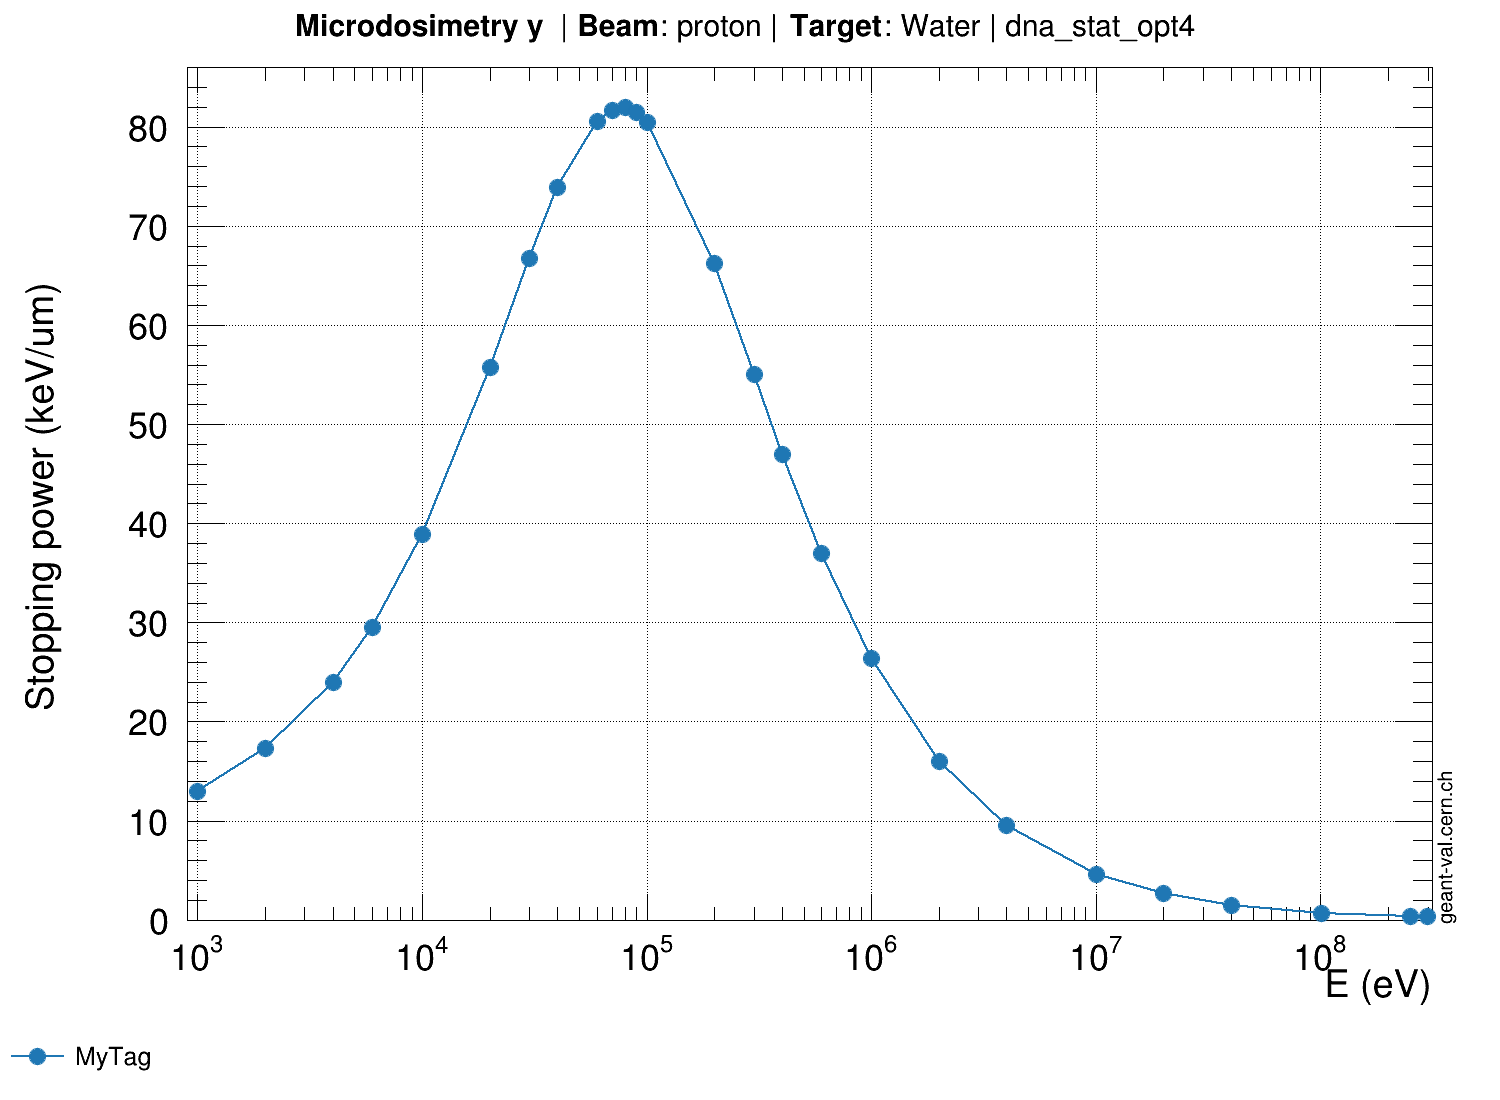
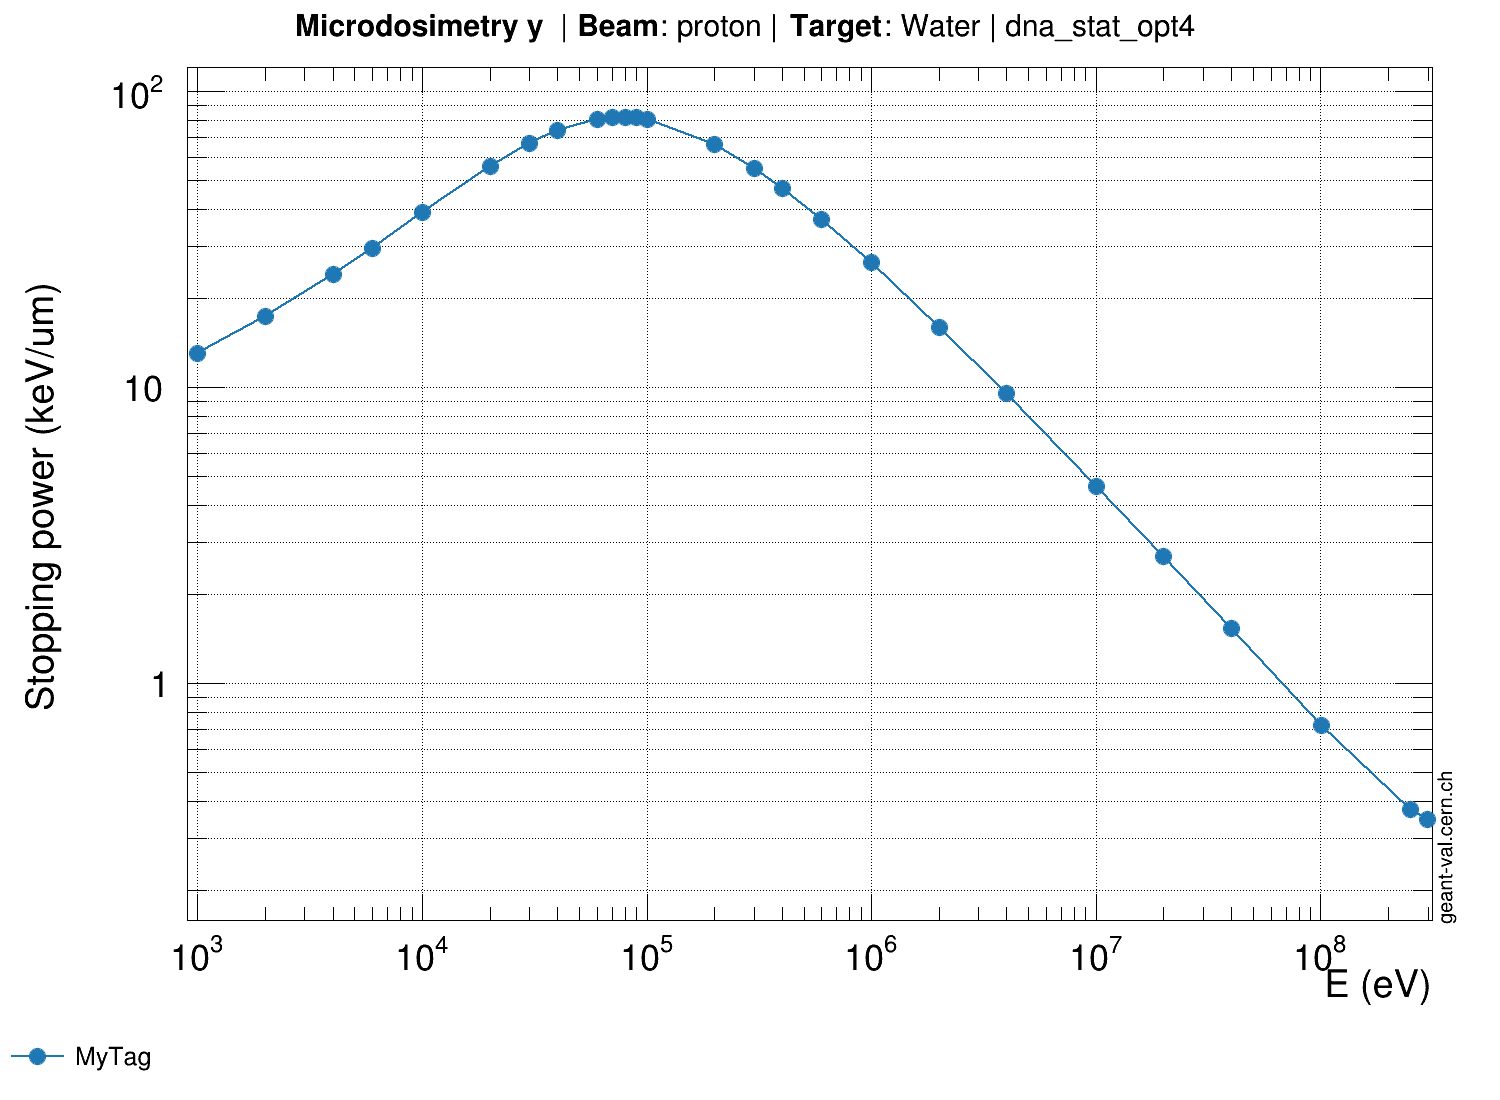
spower/proton.conf : mar. mars 21 11:00:14 CET 2023

diff --git a/assets/OUTPUTJSON/geant4/MyTag/x86_64/spower/proton.conf.c b/assets/OUTPUTJSON/geant4/MyTag/x86_64/spower/proton.conf.c
@@ -118,3 +118,123 @@ double gvp_id-1_yerrors[26] = {
   0,
   0
 };
+// Tool:               GEANT4
+// Version:            MyTag
+// Model:              dna_stat_opt4
+// Observable:         microdosimetry y
+// Target:             Water
+// Beam Particle:      proton
+// Secondary Particle: None
+
+double gvp_id-1_x[26] = {
+  1000,
+  2000,
+  4000,
+  6000,
+  10000,
+  20000,
+  30000,
+  40000,
+  60000,
+  70000,
+  80000,
+  90000,
+  100000,
+  200000,
+  300000,
+  400000,
+  600000,
+  1e+06,
+  2e+06,
+  4e+06,
+  1e+07,
+  2e+07,
+  4e+07,
+  1.01e+08,
+  2.5e+08,
+  2.99e+08
+};
+double gvp_id-1_y[26] = {
+  13.0184,
+  17.328,
+  24.031,
+  29.5155,
+  38.8907,
+  55.7066,
+  66.7433,
+  73.9359,
+  80.6045,
+  81.6979,
+  81.9627,
+  81.5103,
+  80.4321,
+  66.2496,
+  55.044,
+  47.0118,
+  36.9745,
+  26.4513,
+  15.9931,
+  9.55915,
+  4.64455,
+  2.69499,
+  1.53507,
+  0.719264,
+  0.375494,
+  0.347055
+};
+double gvp_id-1_xerrors[26] = {
+  0,
+  0,
+  0,
+  0,
+  0,
+  0,
+  0,
+  0,
+  0,
+  0,
+  0,
+  0,
+  0,
+  0,
+  0,
+  0,
+  0,
+  0,
+  0,
+  0,
+  0,
+  0,
+  0,
+  0,
+  0,
+  0
+};
+double gvp_id-1_yerrors[26] = {
+  0,
+  0,
+  0,
+  0,
+  0,
+  0,
+  0,
+  0,
+  0,
+  0,
+  0,
+  0,
+  0,
+  0,
+  0,
+  0,
+  0,
+  0,
+  0,
+  0,
+  0,
+  0,
+  0,
+  0,
+  0,
+  0
+};
